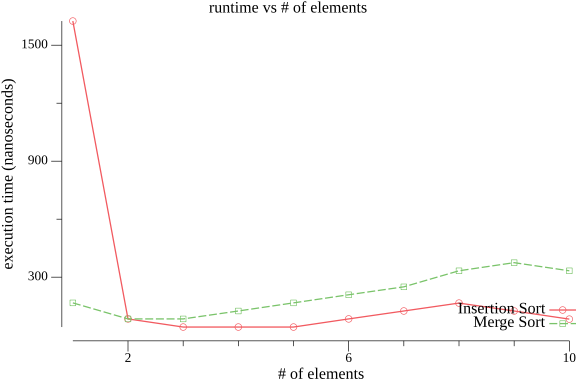
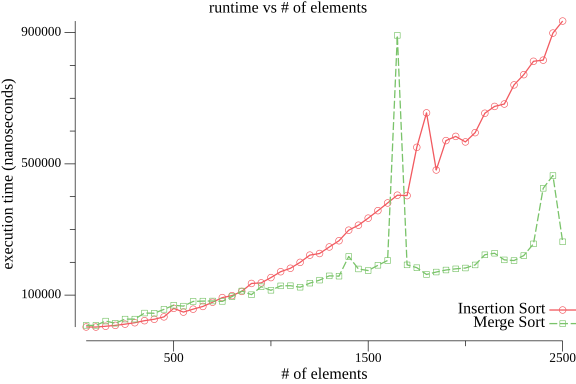
increased n to show differences better

diff --git a/main.go b/main.go
@@ -21,30 +21,33 @@ func main() {
 	p.Y.Label.Text = "execution time (nanoseconds)"
 
 	// store points
-	insertionSortPoints := make(plotter.XYs, 10)
-	mergeSortPoints := make(plotter.XYs, 10)
+	insertionSortPoints := make(plotter.XYs, 50)
+	mergeSortPoints := make(plotter.XYs, 50)
 
 	// Run the algorithms
 	start := time.Now()
 
-	for i := 0; i < 10; i++ {
-		nums := rand.Perm(i + 1)
+	for i := 0; i < 50; i++ {
+		nums := rand.Perm((i + 1) * 50)
 
 		// Insertion sort
 		start = time.Now()
 		insertionSort.Sort(nums)
-		insertionSortPoints[i].X = float64(i + 1)
+		insertionSortPoints[i].X = float64((i + 1) * 50)
 		insertionSortPoints[i].Y = float64(time.Since(start).Nanoseconds())
 
 		// Merge sort
 		start = time.Now()
 		mergeSort.Sort(nums)
-		mergeSortPoints[i].X = float64(i + 1)
+		mergeSortPoints[i].X = float64((i + 1) * 50)
 		mergeSortPoints[i].Y = float64(time.Since(start).Nanoseconds())
 	}
 
 	// Draw the lines
-	plotutil.AddLinePoints(p, "Insertion Sort", insertionSortPoints, "Merge Sort", mergeSortPoints)
+	err := plotutil.AddLinePoints(p, "Insertion Sort", insertionSortPoints, "Merge Sort", mergeSortPoints)
+	if err != nil {
+		return
+	}
 
 	if err := p.Save(6*vg.Inch, 4*vg.Inch, "graph.png"); err != nil {
 		log.Panicf("Failed to save graph: %v", err)
